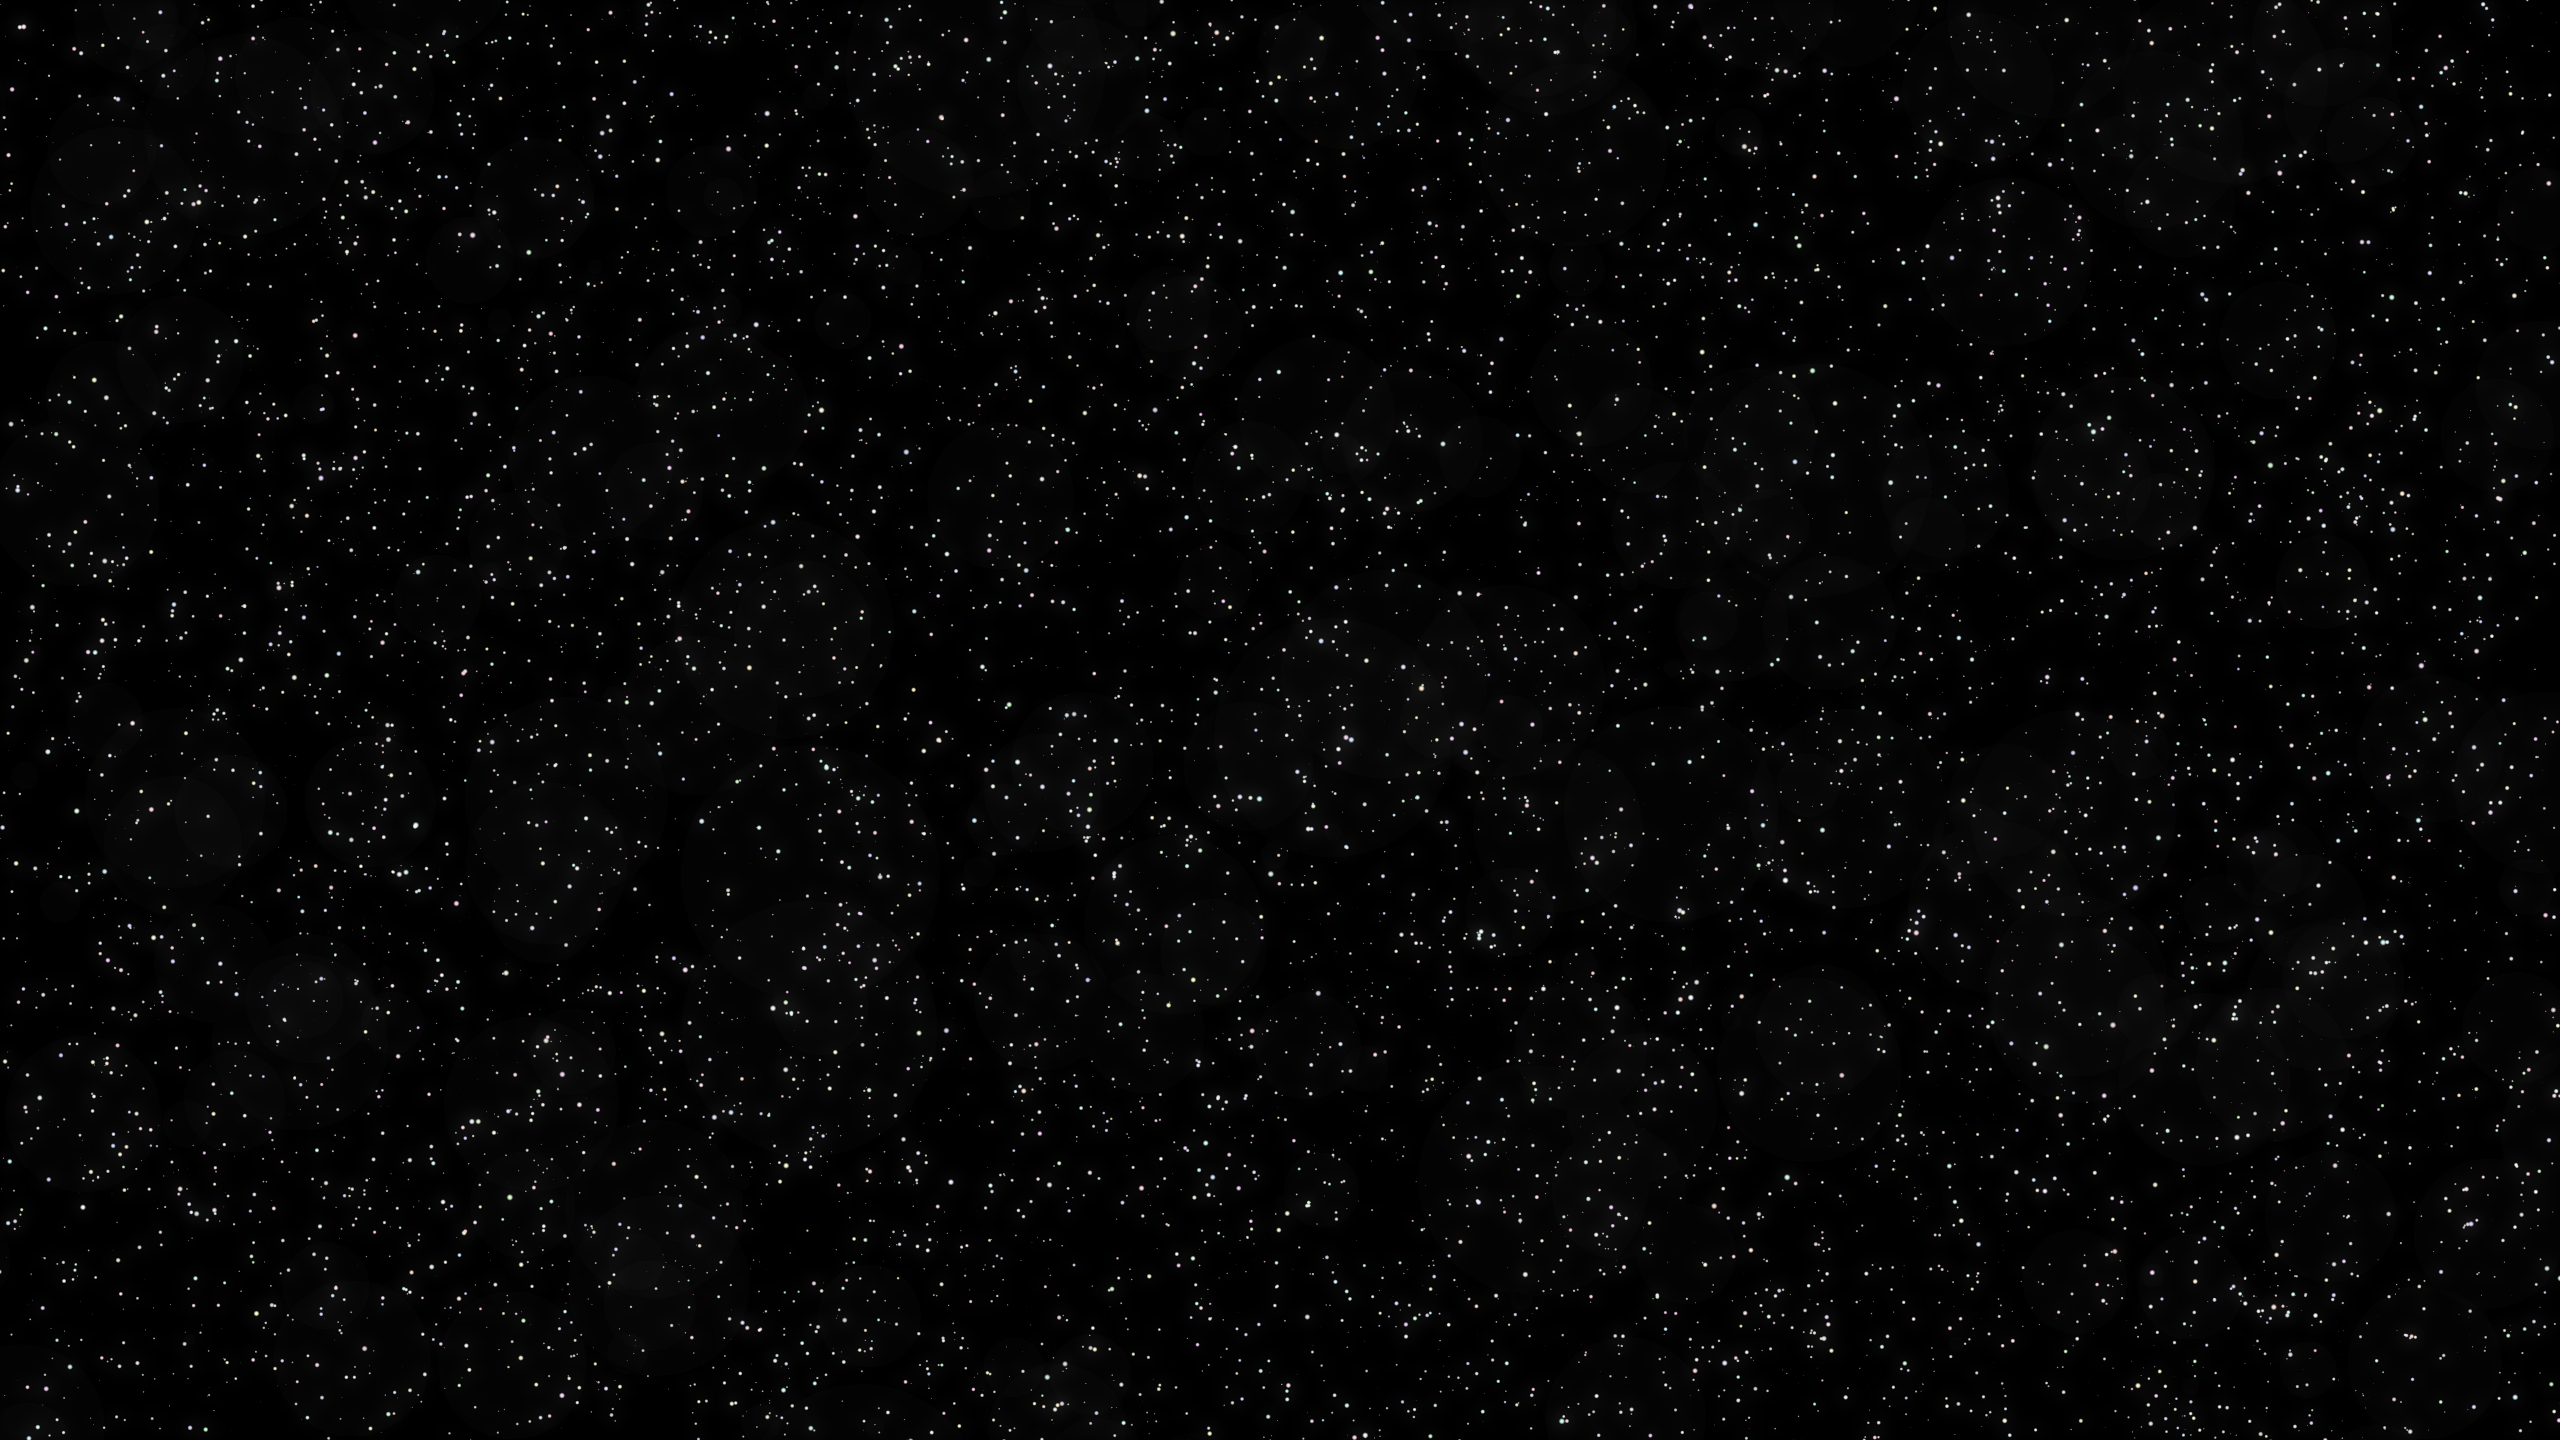
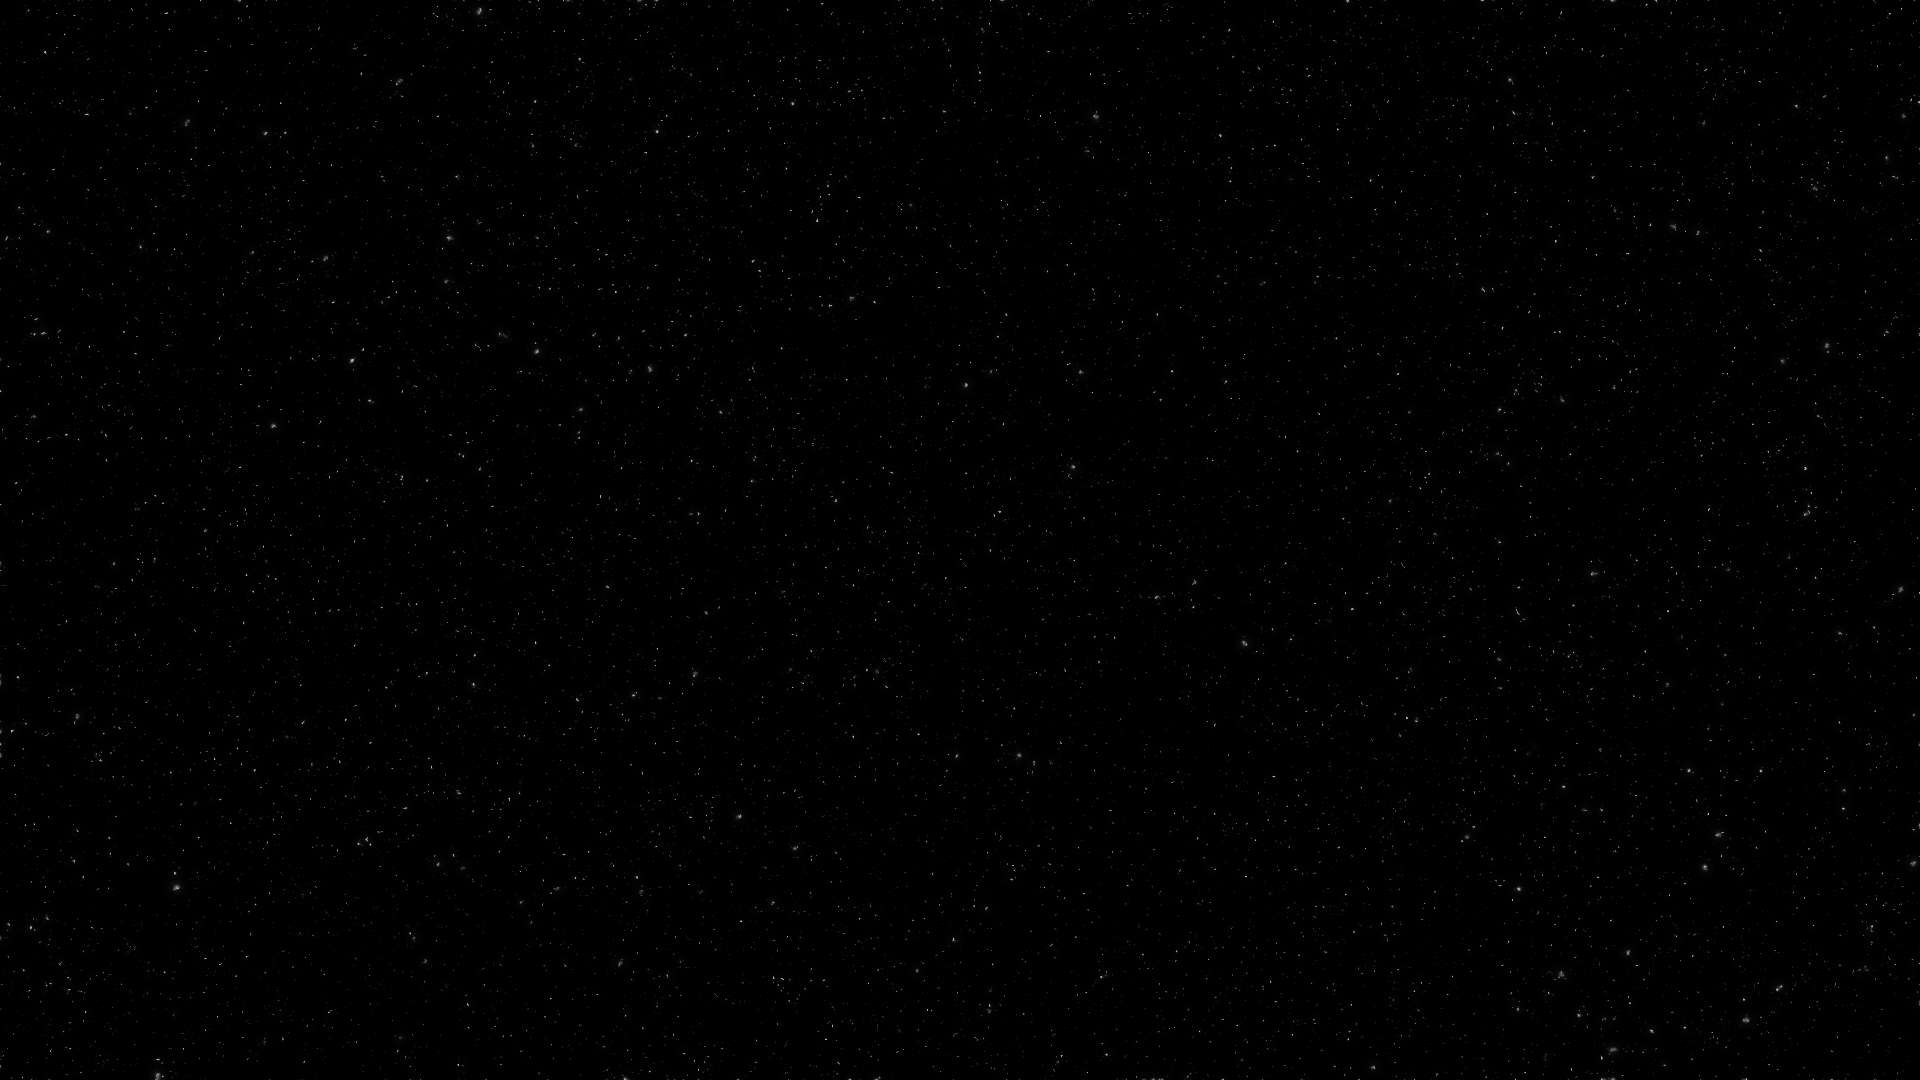
working on routing and interface :hammer:

Changed region(s): [[0.875, 0.8861, 0.9062, 0.9167]]

diff --git a/src/components/Home/Sections.vue b/src/components/Home/Sections.vue
@@ -1,0 +1,76 @@
+<template>
+  <div class="py-24 px-6">
+    <div class="max-w-6xl mx-auto mb-12">
+      <h2
+        class="mx-auto text-center text-2xl md:text-5xl max-w-3xl leading-tight text-gray-800 mb-12"
+      >
+        Lorem ipsum dolor sit amet, consectetur adipiscing elit.
+      </h2>
+
+      <p
+        class="mb-6 text-gray-600 mx-auto max-w-lg text-center leading-relaxed"
+      >
+        Lorem ipsum dolor sit amet, consectetur adipiscing elit. Nulla et eros
+        libero. Nunc auctor nisi imperdiet fringilla blandit. Vivamus pharetra
+        pulvinar purus. Donec ligula dui, pellentesque eget lacus et, viverra
+        placerat enim. Maecenas porttitor massa id nulla commodo, venenatis
+        suscipit est vestibulum. Quisque quis felis bibendum, placerat velit et,
+        tincidunt felis. Suspendisse a hendrerit metus.
+      </p>
+    </div>
+    <div class="max-w-5xl mx-auto flex flex-wrap items-start">
+      <div class="flex flex-wrap -mx-2">
+        <div class="w-full md:w-1/3 p-2 mb-12">
+          <router-link
+            to="/people"
+            class="block mb-8 bg-black hover:bg-gray-700"
+          >
+            <img
+              src="../../assets/images/people.jpg"
+              class="w-full h-64 object-cover opacity-75"
+            />
+          </router-link>
+          <router-link
+            class="block text-base text-left uppercase tracking-wider text-gray-700"
+            to="/people"
+            >People</router-link
+          >
+        </div>
+
+        <div class="w-full md:w-1/3 p-2 mb-12">
+          <router-link
+            to="/planets"
+            class="block mb-8 bg-black hover:bg-gray-700"
+          >
+            <img
+              src="../../assets/images/planets.jpg"
+              class="w-full h-64 object-cover opacity-75"
+            />
+          </router-link>
+          <router-link
+            to="/planets"
+            class="block text-base text-left uppercase tracking-wider text-gray-700"
+            >Planets</router-link
+          >
+        </div>
+
+        <div class="w-full md:w-1/3 p-2 mb-12">
+          <router-link
+            to="/starships"
+            class="block mb-8 bg-black hover:bg-gray-700"
+          >
+            <img
+              src="../../assets/images/starships.jpg"
+              class="w-full h-64 object-cover opacity-75"
+            />
+          </router-link>
+          <router-link
+            to="/starships"
+            class="block text-base text-left uppercase tracking-wider text-gray-700"
+            >Starships</router-link
+          >
+        </div>
+      </div>
+    </div>
+  </div>
+</template>

diff --git a/src/views/Home.vue b/src/views/Home.vue
@@ -2,7 +2,7 @@
   <div class="home">
     <div class="w-full h-screen relative text-primary-100">
       <img
-        src="../assets/images/clone-4773016.jpg"
+        src="../assets/images/spac-bg.png"
         class="absolute top-0 left-0 w-full h-full object-cover"
       />
 
@@ -13,28 +13,30 @@
       >
         <div>
           <h1 class="text-3xl md:text-6xl leading-tight mb-16">
-            Duis aute irure dolor, <br class="hidden md:block" />reprehenderit
-            in voluptate.
+            Lorem ipsum dolor sit amet,
+            <br class="hidden md:block" />consectetur adipiscing elit.
           </h1>
           <a
-            href="#"
-            class="border border-white py-4 px-8 hover:bg-white hover:text-black"
+            href="#sections"
+            class="border border-primary-100 py-4 px-8 hover:bg-primary-100 hover:text-black"
             >Get started</a
           >
         </div>
       </div>
     </div>
+    <Sections id="sections" />
   </div>
 </template>
 
 <script>
-// @ is an alias to /src
 import NavBar from "@/components/UI/NavBar.vue";
+import Sections from "@/components/Home/Sections.vue";
 
 export default {
   name: "Home",
   components: {
     NavBar,
+    Sections,
   },
 };
 </script>

diff --git a/src/views/Starships.vue b/src/views/Starships.vue
@@ -1,12 +1,18 @@
 <template>
-  <div class="starships"></div>
+  <div class="starships">
+    {{ starships }}
+  </div>
 </template>
 
 <script>
+import { mapState } from "vuex";
 export default {
   name: "Starships",
   mounted() {
     this.$store.dispatch("fetchStarships");
+  },
+  computed: {
+    ...mapState(["starships"]),
   },
 };
 </script>

diff --git a/src/views/People.vue b/src/views/People.vue
@@ -1,12 +1,18 @@
 <template>
-  <div class="people"></div>
+  <div class="people">
+    {{ people }}
+  </div>
 </template>
 
 <script>
+import { mapState } from "vuex";
 export default {
   name: "People",
   mounted() {
     this.$store.dispatch("fetchPeople");
+  },
+  computed: {
+    ...mapState(["people"]),
   },
 };
 </script>
